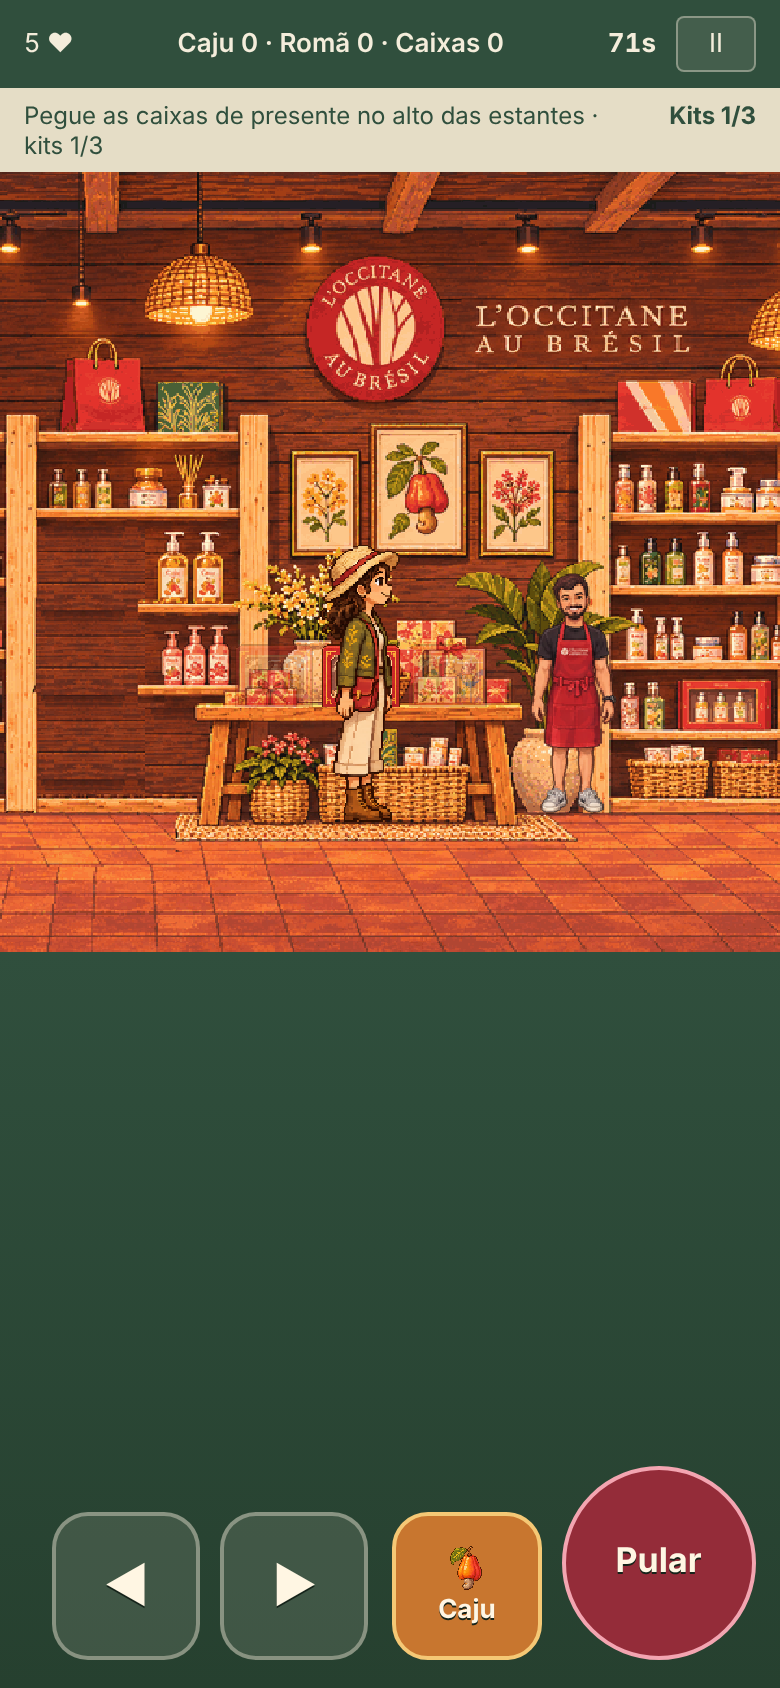
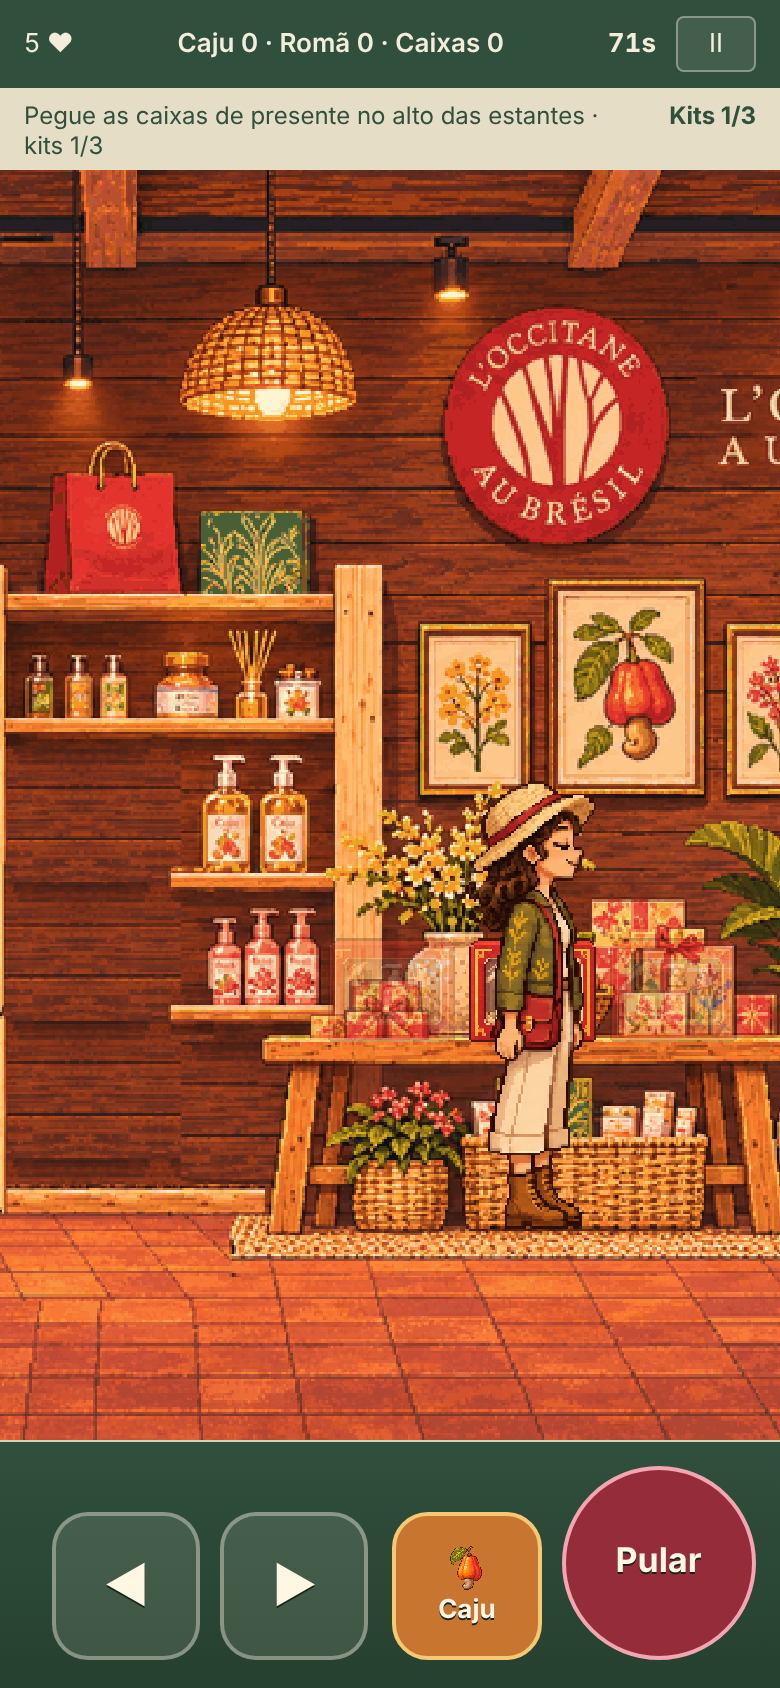
Tela do jogo ocupa toda a altura livre no celular em pé (opção A, mais zoom)
- Altura do jogo calculada pela área livre de cada aparelho e recalculada ao redimensionar
- Câmera aproxima pela altura: cidade e showroom preenchem a tela, exploradora maior
- Falas no alto do jogo; botões sempre visíveis para a tela não mudar de tamanho
- Botão "Conversar com Pedro" flutua acima dos botões e some durante a conversa

Claude-Session: https://claude.ai/code/session_01PQYRHC5WMmDgubEJPfESPK

diff --git a/src/game/Aventura.js b/src/game/Aventura.js
@@ -7,7 +7,7 @@ import { Tutorial } from './Tutorial.js';
 import { carregarArte } from './assets.js';
 import { carregarPedro, criarPedro } from './pedro-animacoes.js';
 import { criarMissao, coletarProduto, montarKit, objetivoMissao, criarProdutosCidade, faltaParaKit, META_KITS } from './missao.js';
-import { ALTURA, MUNDO, DURACAO_SEGUNDOS, SHOWROOM, ZOOM_CIDADE, ZOOM_SHOWROOM, MODO_FACIL } from './config.js';
+import { ALTURA, MUNDO, DURACAO_SEGUNDOS, SHOWROOM, ALTURA_CIDADE, ALTURA_SHOWROOM, MODO_FACIL } from './config.js';
 import { CAMPANHA } from '../data/campanha.js';
 import { registrar } from '../services/metricas.js';
 import { tocar } from '../services/som.js';
@@ -93,7 +93,7 @@ export class Aventura extends Phaser.Scene {
     // Cidade e showroom são "salas" separadas: a câmera nunca mostra as duas ao mesmo tempo.
     this.physics.world.setBounds(0, 0, FACHADA, ALTURA);
     const cam = this.cameras.main;
-    cam.setZoom(ZOOM_CIDADE); cam.setBounds(0, 0, FACHADA, ALTURA); cam.startFollow(this.jogador, true, .15, .15); cam.setDeadzone(64, 56);
+    cam.setZoom(this.scale.height / ALTURA_CIDADE); cam.setBounds(0, 0, FACHADA, ALTURA); cam.startFollow(this.jogador, true, .15, .15); cam.setDeadzone(64, 56);
     this.sala = 'cidade';
     this.entrada = new Entrada(this);
     this.events.once('shutdown', () => {
@@ -219,7 +219,7 @@ export class Aventura extends Phaser.Scene {
     this.entregaIntro = entrega;
     this.capivaraIntro = this.add.sprite(300, CHAO, 'capivara', 0).setOrigin(.5, 1).setScale(1 / 3).setFlipX(true).setDepth(5);
     this.tweens.add({ targets: this.jogador, x: 96, duration: 1300, onComplete: () => { if (this.estado === 'intro') this.jogador.play('parado'); } });
-    $('controles').hidden = true; $('pular-intro').hidden = false; $('dialogo').classList.add('no-alto');
+    $('pular-intro').hidden = false; $('dialogo').classList.add('no-alto');
     this.ultimoHUD = ''; this.atualizarHUD(); $('local').textContent = 'Itajubá';
     this.avancarDialogo();
   }
@@ -285,7 +285,7 @@ export class Aventura extends Phaser.Scene {
       this.physics.world.setBounds(FACHADA, 0, MUNDO - FACHADA, ALTURA);
       this.solidos.add(this.pisoShowroom);
       this.jogador.body.reset(FACHADA + 24, CHAO); this.jogador.olhandoDireita = true; this.checkpoint = FACHADA + 24;
-      cam.setZoom(ZOOM_SHOWROOM); cam.setBounds(FACHADA, SHOWROOM.topo, MUNDO - FACHADA, SHOWROOM.altura);
+      cam.setZoom(this.scale.height / ALTURA_SHOWROOM); cam.setBounds(FACHADA, SHOWROOM.topo, MUNDO - FACHADA, SHOWROOM.altura);
       cam.centerOn(FACHADA + 80, 180);
       registrar('chegada_showroom');
       this.time.delayedCall(650, () => {
@@ -303,11 +303,11 @@ export class Aventura extends Phaser.Scene {
     $('dialogo-titulo').textContent = 'PEDRO · SHOWROOM ITAJUBÁ';
     $('dialogo-texto').textContent = CAMPANHA.boasVindasPedro;
     $('fechar-dialogo').textContent = 'Vamos montar os kits →';
-    $('dialogo').hidden = false; $('controles').hidden = true; this.tutorial?.esconder(); $('fechar-dialogo').focus({ preventScroll: true });
+    $('dialogo').hidden = false; $('interagir').hidden = true; this.tutorial?.esconder(); $('fechar-dialogo').focus({ preventScroll: true });
   }
   fecharDialogo() {
     if (!this.dialogoAberto) return;
-    this.dialogoAberto = false; $('dialogo').hidden = true; $('controles').hidden = false;
+    this.dialogoAberto = false; $('dialogo').hidden = true;
     this.entrada.ignorarAteSoltar(); this.physics.world.resume(); this.pedro.play('pedro-parado');
     this.pedroEntra();
   }
@@ -355,7 +355,7 @@ export class Aventura extends Phaser.Scene {
   }
 
   contextoInteracao() {
-    if (this.pedroPerto && !this.pedroConversou) return { tipo: 'pedro', texto: 'Conversar · E / Enter' };
+    if (this.pedroPerto && !this.pedroConversou && !this.dialogoAberto) return { tipo: 'pedro', texto: 'Conversar com Pedro' };
     return null;
   }
   interagir(contexto) {
@@ -393,9 +393,13 @@ export class Aventura extends Phaser.Scene {
       caju: this.missao.coletados.caju, roma: this.missao.coletados.roma, kits: this.missao.kits });
     this.scene.stop();
   }
+  // Zoom pela altura da tela (que muda com o celular) e câmera um pouco à frente de quem anda.
   atualizarCamera() {
     const cam = this.cameras.main;
-    cam.setFollowOffset(this.jogador.olhandoDireita ? -40 : 40, 0);
+    const zoom = this.scale.height / (this.sala === 'showroom' ? ALTURA_SHOWROOM : ALTURA_CIDADE);
+    if (Math.abs(cam.zoom - zoom) > .001) cam.setZoom(zoom);
+    const frente = Math.min(40, (this.scale.width / zoom) * .2);
+    cam.setFollowOffset(this.jogador.olhandoDireita ? -frente : frente, 0);
     this.morros.tilePositionX = cam.scrollX * .15 * 3; this.casas.tilePositionX = cam.scrollX * .4 * 3;
   }
 

diff --git a/src/style.css b/src/style.css
@@ -31,13 +31,13 @@ body.jogando #partida{display:flex;flex-direction:column;height:100dvh;max-width
 #partida #hud #vida{grid-column:1;grid-row:1}
 #partida #hud #tempo{font-variant-numeric:tabular-nums;font-weight:700}
 #partida #objetivo-panel{border-radius:0;padding:6px 12px;font-size:12px}
-#partida #palco{position:relative;width:min(100%,calc(100dvh - var(--hud) - var(--painel-min)));margin:0 auto;flex:none}
-#partida #jogo{aspect-ratio:1/1;width:100%}
-#partida #painel{position:relative;flex:1;display:flex;flex-direction:column;justify-content:flex-end;gap:10px;min-height:var(--painel-min);
+#partida #palco{position:relative;width:100%;flex:1;min-height:0;margin:0 auto}
+#partida #jogo{position:absolute;inset:0;width:auto;aspect-ratio:auto}
+#partida #painel{position:relative;flex:none;display:flex;flex-direction:column;justify-content:flex-end;gap:10px;
   padding:12px max(12px,env(safe-area-inset-left,0px)) calc(14px + env(safe-area-inset-bottom,0px)) max(12px,env(safe-area-inset-right,0px));background:linear-gradient(#304f3d,#26402f)}
 body.com-selo #partida #painel{padding-bottom:calc(82px + env(safe-area-inset-bottom,0px))}
 /* falas da abertura e do Pedro: no painel, no lugar dos botões */
-#partida #dialogo{position:static;margin:0;max-width:none;left:auto;right:auto;bottom:auto;top:auto;padding:14px 16px;text-align:left;box-shadow:none}
+#partida #dialogo{position:absolute;z-index:8;top:10px;left:10px;right:10px;bottom:auto;margin:0;max-width:560px;margin-inline:auto;padding:14px 16px;text-align:left;box-shadow:0 8px 24px #20151a66}
 #partida #dialogo p{font-size:15px;line-height:1.5;margin:4px 0 12px}#partida #dialogo .eyebrow{font-size:11px}
 #partida #dialogo .acoes-dialogo{justify-content:flex-start}#partida #dialogo .principal{font-size:14px;min-height:48px}
 /* botões */
@@ -50,11 +50,11 @@ body.com-selo #partida #painel{padding-bottom:calc(82px + env(safe-area-inset-bo
 #partida #controles .caju .icone{width:22px;height:22px;background:url('/assets/runtime-sprites/caju-fruta.webp') center/contain no-repeat;image-rendering:pixelated}
 #partida #controles .pular{width:clamp(84px,25vw,112px);height:clamp(84px,25vw,112px);border-radius:50%;background:#942c39;border-color:#f3a5b1;font-size:17px}
 #partida #controles button.pressed{background:#b18b45;transform:scale(.96)}
-#partida #controles #interagir{align-self:stretch;min-height:50px;border-radius:12px;background:#942c39;border-color:#f3a5b1;font-size:15px}
+#partida #controles #interagir{position:absolute;left:12px;right:12px;bottom:calc(100% + 6px);z-index:6;min-height:50px;box-shadow:0 6px 18px #0006;border-radius:12px;background:#942c39;border-color:#f3a5b1;font-size:15px}
 #partida #controles .interacao{position:static;transform:none}
 /* balão de dica com seta para o botão */
 #dica{position:absolute;left:12px;right:12px;bottom:calc(100% - 4px);z-index:5;pointer-events:none}
-#painel #dica{position:relative;left:auto;right:auto;bottom:auto}
+#painel #dica{position:absolute;left:12px;right:12px;bottom:calc(100% + 4px)}
 #dica p{margin:0;background:#fff4df;color:#3a2a22;border:2px solid #e6b84a;border-radius:12px;padding:10px 14px;font-size:15px;font-weight:600;line-height:1.35;text-align:center;box-shadow:0 6px 18px #0005}
 #dica::after{content:"";position:absolute;top:100%;left:var(--seta,50%);transform:translateX(-50%);border:12px solid transparent;border-top-color:#e6b84a;animation:quica .8s ease-in-out infinite}
 @keyframes quica{50%{transform:translate(-50%,6px)}}

diff --git a/src/main.js b/src/main.js
@@ -24,12 +24,21 @@ function concluir({presentes, caju=0, roma=0, kits=0, motivo}){
   $('beneficio').textContent=podeResgatar(CAMPANHA)?`Seu benefício: ${percentualSeguro(CAMPANHA.oferta.descontoPercentual)}% de desconto.`:'Prévia do benefício: até 10% de desconto. Resgate em preparação.';
   $('condicoes').textContent=podeResgatar(CAMPANHA)?`Validade: ${CAMPANHA.oferta.validade}. ${CAMPANHA.oferta.condicoes}`:'A oferta será ativada após a definição de validade e condições pela loja.';
 }
+// Altura da tela do jogo na proporção da área livre (largura fixa em 960 px de jogo).
+function tamanhoTela(){
+  const r=$('jogo').getBoundingClientRect?.();
+  if(!r||!r.width||!r.height)return TELA.altura;
+  return Math.round(Math.min(TELA.alturaMax,Math.max(TELA.alturaMin,TELA.largura*r.height/r.width)));
+}
+let ajusteTela=0;
+function ajustarTela(){cancelAnimationFrame?.(ajusteTela);ajusteTela=requestAnimationFrame?.(()=>{if(jogo&&emPartida){const h=tamanhoTela();if(Math.abs(jogo.scale.height-h)>2)jogo.scale.setGameSize(TELA.largura,h);}})}
+if(typeof ResizeObserver!=='undefined')new ResizeObserver(ajustarTela).observe($('jogo'));
 async function iniciar(comIntro=false){
-  $('inicio').hidden=true;$('final').hidden=true;$('resgate').hidden=true;$('resgate').reset();$('partida').hidden=false;$('controles').hidden=true;$('pausar').hidden=false;document.body.classList.add('jogando');emPartida=true;pausado=false;
+  $('inicio').hidden=true;$('final').hidden=true;$('resgate').hidden=true;$('resgate').reset();$('partida').hidden=false;$('controles').hidden=false;$('pausar').hidden=false;document.body.classList.add('jogando');emPartida=true;pausado=false;
   $('loading').hidden=false;$('tentar-carga').hidden=true;$('loading-texto').textContent='Preparando a aventura…';
   registrar('inicio');
   if(jogo){jogo.registry.set('comIntro',comIntro);jogo.scene.start('Aventura');return;}
-  jogo=new Phaser.Game({type:Phaser.AUTO,parent:'jogo',width:TELA.largura,height:TELA.altura,pixelArt:true,roundPixels:true,backgroundColor:'#cdd7b0',scale:{mode:Phaser.Scale.FIT,autoCenter:Phaser.Scale.CENTER_BOTH},input:{activePointers:4},audio:{noAudio:true},physics:{default:'arcade',arcade:{gravity:{x:0,y:JOGADOR.gravidade},debug:false}},scene:[Aventura]});
+  jogo=new Phaser.Game({type:Phaser.AUTO,parent:'jogo',width:TELA.largura,height:tamanhoTela(),pixelArt:true,roundPixels:true,backgroundColor:'#cdd7b0',scale:{mode:Phaser.Scale.FIT,autoCenter:Phaser.Scale.CENTER_BOTH},input:{activePointers:4},audio:{noAudio:true},physics:{default:'arcade',arcade:{gravity:{x:0,y:JOGADOR.gravidade},debug:false}},scene:[Aventura]});
   jogo.registry.set('comIntro',comIntro);
   jogo.events.on('conclusao',concluir);
   jogo.events.on('falha-assets',()=>{emPartida=false;$('loading-texto').textContent='Não foi possível carregar todas as imagens. Confira sua conexão e tente novamente.';$('tentar-carga').hidden=false;});

diff --git a/tests/dialogo.test.js b/tests/dialogo.test.js
@@ -8,12 +8,12 @@ import { criarArte } from '../src/game/arte.js';
 import { FOLHAS } from '../src/game/assets.js';
 
 test('conversa interrompe física/cronômetro e retoma uma vez descartando o input anterior',()=>{
-  const elements={dialogo:{hidden:true},'dialogo-texto':{},'dialogo-titulo':{},'fechar-dialogo':{focus(){}},controles:{hidden:false}};
+  const elements={dialogo:{hidden:true},'dialogo-texto':{},'dialogo-titulo':{},'fechar-dialogo':{focus(){}},controles:{hidden:false},interagir:{hidden:false}};
   const source=readFileSync(new URL('../src/game/Aventura.js',import.meta.url),'utf8').replace(/^import[^\n]*\n/gm,'').replace('export class Aventura','class Aventura');
   const Klass=vm.runInNewContext(source+'\nAventura;',{Phaser:{Scene:class{}},CAMPANHA,SHOWROOM,document:{getElementById:id=>elements[id]}});
   const s=new Klass();let pauses=0,resumes=0,discard=0,velocity;
   let entrou=0;Object.assign(s,{tempo:22,fim:false,tweens:{add(){entrou++;}},pedroBancada:{},entrada:{limpar(){},ignorarAteSoltar(){discard++;},atualizar(){},interagirApertou:false},jogador:{body:{setVelocity(...v){velocity=v;}},play(){}},pedro:{play(){},disableInteractive(){}},physics:{world:{pause(){pauses++;},resume(){resumes++;}}}});
-  s.abrirDialogo();assert.equal(elements.controles.hidden,true,'a fala ocupa o painel no lugar dos botões');assert.deepEqual(velocity,[0,0]);assert.equal(pauses,1);assert.equal(elements.dialogo.hidden,false);
+  s.abrirDialogo();assert.equal(elements.controles.hidden,false,'os botões ficam: esconder mudaria o tamanho da tela do jogo');assert.deepEqual(velocity,[0,0]);assert.equal(pauses,1);assert.equal(elements.dialogo.hidden,false);
   s.update(999999,2000);assert.equal(s.tempo,22);
   s.fecharDialogo();s.fecharDialogo();assert.equal(resumes,1);assert.equal(entrou,2,'Pedro sai da porta e aparece na bancada uma vez só');assert.equal(elements.dialogo.hidden,true);assert.equal(discard,2);
 });

diff --git a/src/game/config.js b/src/game/config.js
@@ -3,11 +3,14 @@ export const ALTURA = 270;
 export const DURACAO_SEGUNDOS = 75;
 // O mundo é medido em unidades de 480x270. O canvas tem o dobro (960x540) e a câmera usa zoom 2 na
 // cidade e zoom 3 no showroom, onde os fundos têm 3 pixels de textura por unidade.
-// Tela quadrada (960x960), pensada para o celular em pé: ocupa toda a largura, a cidade aparece inteira do céu
-// ao chão (270 de altura, 270 de largura visível) e o showroom preenche a altura com os fundos de 180.
-export const TELA = { largura: 960, altura: 960 };
-export const ZOOM_CIDADE = TELA.altura / 270;
-export const ZOOM_SHOWROOM = TELA.altura / 180;
+// A tela do jogo ocupa todo o espaço livre entre o placar e os botões (no celular em pé fica mais alta que larga).
+// A largura em pixels é fixa; a altura acompanha a proporção da área (ver tamanhoTela em main.js).
+// A câmera aproxima até a cidade (270 de altura) ou o showroom (180) preencher a altura: no celular em pé
+// aparecem ~175 unidades de largura da rua e ~115 do showroom.
+export const TELA = { largura: 960, altura: 960, alturaMin: 540, alturaMax: 1700 };
+export const ALTURA_CIDADE = 270, ALTURA_SHOWROOM = 180;
+export const ZOOM_CIDADE = TELA.altura / ALTURA_CIDADE;
+export const ZOOM_SHOWROOM = TELA.altura / ALTURA_SHOWROOM;
 export const SHOWROOM = { x: 5216, largura: 320, topo: 90, altura: 180 }; // cada um dos dois fundos (fachada, interior)
 export const MUNDO = SHOWROOM.x + SHOWROOM.largura * 2;
 export const ARTE_JOGADOR = 3; // pixels de textura por unidade do mundo no sprite da exploradora

diff --git a/index.html b/index.html
@@ -23,13 +23,13 @@
     <div id="objetivo-panel"><span id="objetivo">Reúna os produtos</span><span id="kits">Kits 0/3</span></div>
     <div id="palco">
       <div id="jogo"></div>
+      <section id="dialogo" hidden role="dialog" aria-modal="true" aria-labelledby="dialogo-titulo">
+        <p class="eyebrow" id="dialogo-titulo">PEDRO · SHOWROOM ITAJUBÁ</p><p id="dialogo-texto"></p><div class="acoes-dialogo"><button id="fechar-dialogo" class="principal">Vamos montar os kits →</button><button id="pular-intro" hidden>Pular abertura</button></div>
+      </section>
       <div id="transicao" hidden aria-live="polite"><p>Showroom</p><strong>L’Occitane au Brésil</strong><span>Itajubá</span></div>
       <div id="loading" hidden role="status"><p id="loading-texto">Preparando a aventura…</p><button id="tentar-carga" hidden>Tentar novamente</button></div>
     </div>
     <div id="painel">
-      <section id="dialogo" hidden role="dialog" aria-modal="true" aria-labelledby="dialogo-titulo">
-        <p class="eyebrow" id="dialogo-titulo">PEDRO · SHOWROOM ITAJUBÁ</p><p id="dialogo-texto"></p><div class="acoes-dialogo"><button id="fechar-dialogo" class="principal">Vamos montar os kits →</button><button id="pular-intro" hidden>Pular abertura</button></div>
-      </section>
       <div id="dica" hidden role="status"><p id="dica-texto"></p></div>
       <div id="controles" hidden aria-label="Controles">
         <button id="interagir" data-controle="interagir" hidden>Conversar</button>

diff --git a/docs/RODADA-AJUSTES.md b/docs/RODADA-AJUSTES.md
@@ -42,12 +42,12 @@ Capturas reais em `docs/capturas/v2-*.png`.
 
 Pedido: o jogo estava pensado para tela deitada e cheia; no celular em pé ficava pequeno, com os botões por cima do jogo e sem instruções claras.
 
-- **Tela do jogo quadrada** (960×960), ocupando toda a largura: a cidade aparece inteira, do céu ao chão, e a exploradora fica maior. No showroom a câmera aproxima para os fundos preencherem a altura. Constantes em `TELA`, `ZOOM_CIDADE` e `ZOOM_SHOWROOM` (`src/game/config.js`).
+- **Tela do jogo ocupa todo o espaço entre o placar e os botões** (opção A, "mais zoom", escolhida pelo Pedro sobre `docs/capturas/proposta-espaco-vertical.png`). A largura do jogo é fixa em 960 px e a altura acompanha a proporção da área de cada celular (`tamanhoTela` em `src/main.js`, recalculada se a tela mudar). A câmera aproxima até a cidade (270 de altura) ou o showroom (180) preencherem a altura: num iPhone em pé aparecem cerca de 160 unidades da rua e 110 do showroom, com a exploradora bem maior.
 - **Partida em coluna, sem rolagem:** HUD no alto, jogo no meio e, embaixo, um painel próprio com setas grandes à esquerda e Caju e Pular à direita, perto dos polegares. Nada fica por cima do jogo.
-- **Falas da abertura e do Pedro** aparecem no painel de baixo, no lugar dos botões, e não cobrem mais a cena.
+- **Falas da abertura e do Pedro** aparecem no alto da tela do jogo; os botões ficam sempre no lugar, para a tela não mudar de tamanho. O botão "Conversar com Pedro" flutua acima dos botões e some durante a conversa.
 - **Dicas da primeira partida** (`src/game/Tutorial.js`): balão com seta e botão piscando para andar, pular, dar caju à primeira capivara e quicar na primeira tendinha. Cada dica some quando a pessoa faz a ação ou depois de alguns segundos; no computador o texto mostra as teclas.
 - **Selo do Netlify:** quando aparece, o painel ganha folga embaixo para o selo não cobrir os botões. O selo não é escondido.
 
-Testado no Chromium com toque emulado em 390×844 e 412×915: sem rolagem, sem erros, setas + pular com dois dedos, dicas na ordem. A partida completa por teclado continua passando (vitrine aos 57,5 s).
+Testado no Chromium com toque emulado em 390×844 e 412×915: sem rolagem, sem erros, setas + pular com dois dedos, dicas na ordem, altura do jogo fixa do começo à conversa com o Pedro. A partida completa por teclado continua passando (vitrine em cerca de 57 s).
 
-Proposta para o espaço que sobra entre o jogo e os botões: `docs/capturas/proposta-espaco-vertical.png` (aguardando escolha).
+Atenção: com o zoom, o showroom mostra só cerca de 110 unidades de largura no celular em pé; vale conferir com gente jogando se a escalada das estantes fica confortável.
